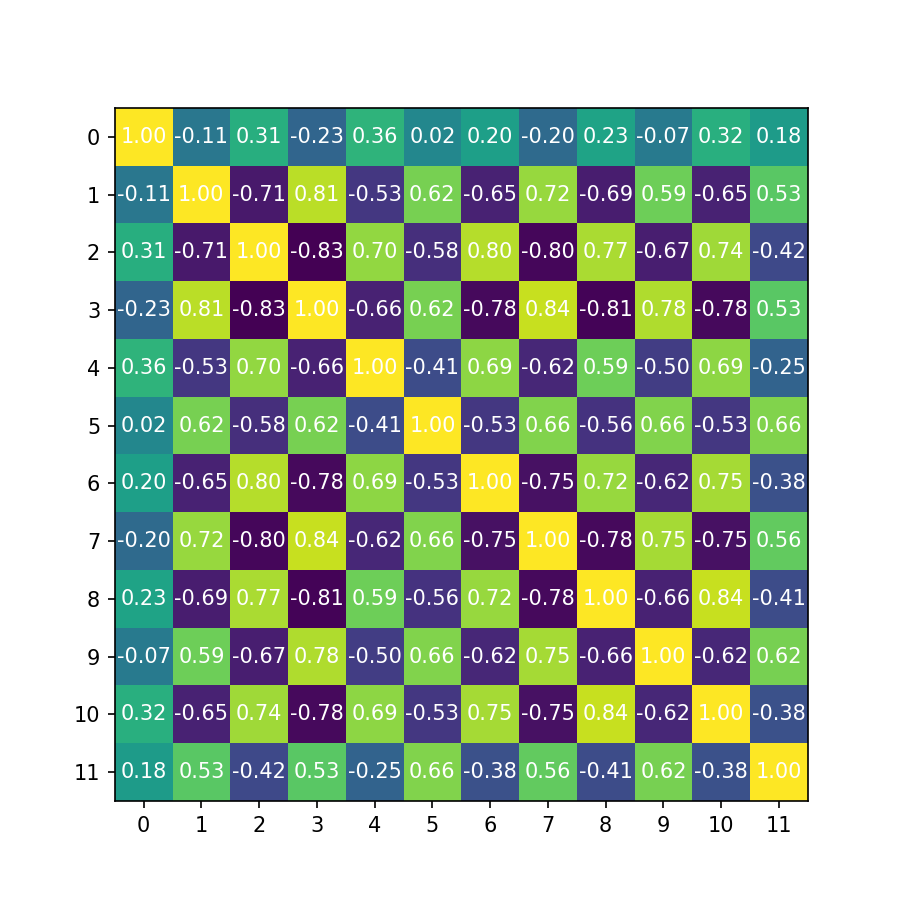
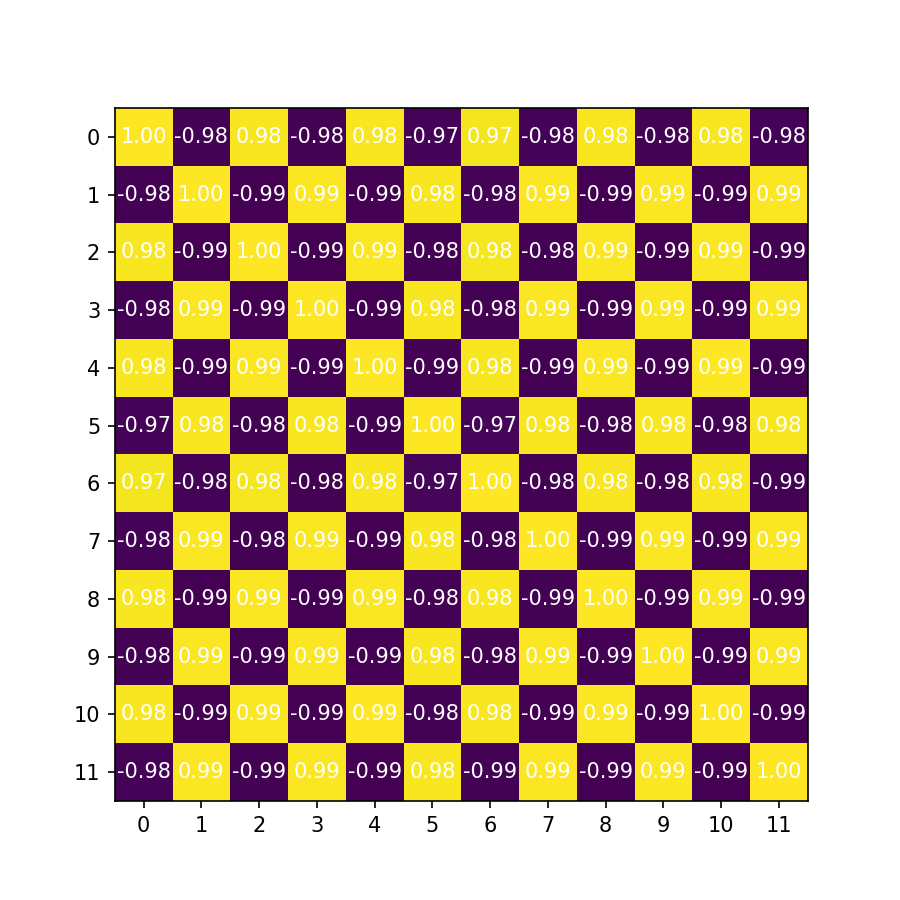
Local Metropolis

diff --git a/python/SpinCorrelationSolver.py b/python/SpinCorrelationSolver.py
@@ -1,4 +1,5 @@
 import sys
+import warnings
 from abc import ABC, abstractmethod
 from collections import deque
 from typing import List, Optional
@@ -9,6 +10,8 @@ import pandas as pd
 from mpi4py import MPI
 from netket.operator.spin import sigmaz
 from tqdm import tqdm
+
+warnings.filterwarnings("ignore")
 
 
 class SpinCorrelationSolver(ABC):
@@ -35,7 +38,7 @@ class SpinCorrelationSolver(ABC):
         self.hilbert = nk.hilbert.Spin(graph=self.graph, s=0.5)
         self.machine = nk.machine.RbmSpin(hilbert=self.hilbert, alpha=3)
         self.machine.init_random_parameters(seed=42, sigma=1.0e-2)
-        self.sampler = nk.sampler.MetropolisExchange(machine=self.machine)
+        self.sampler = nk.sampler.MetropolisLocal(self.machine)
         self._set_operator()
         self.optimizer = nk.optimizer.RmsProp()
 
